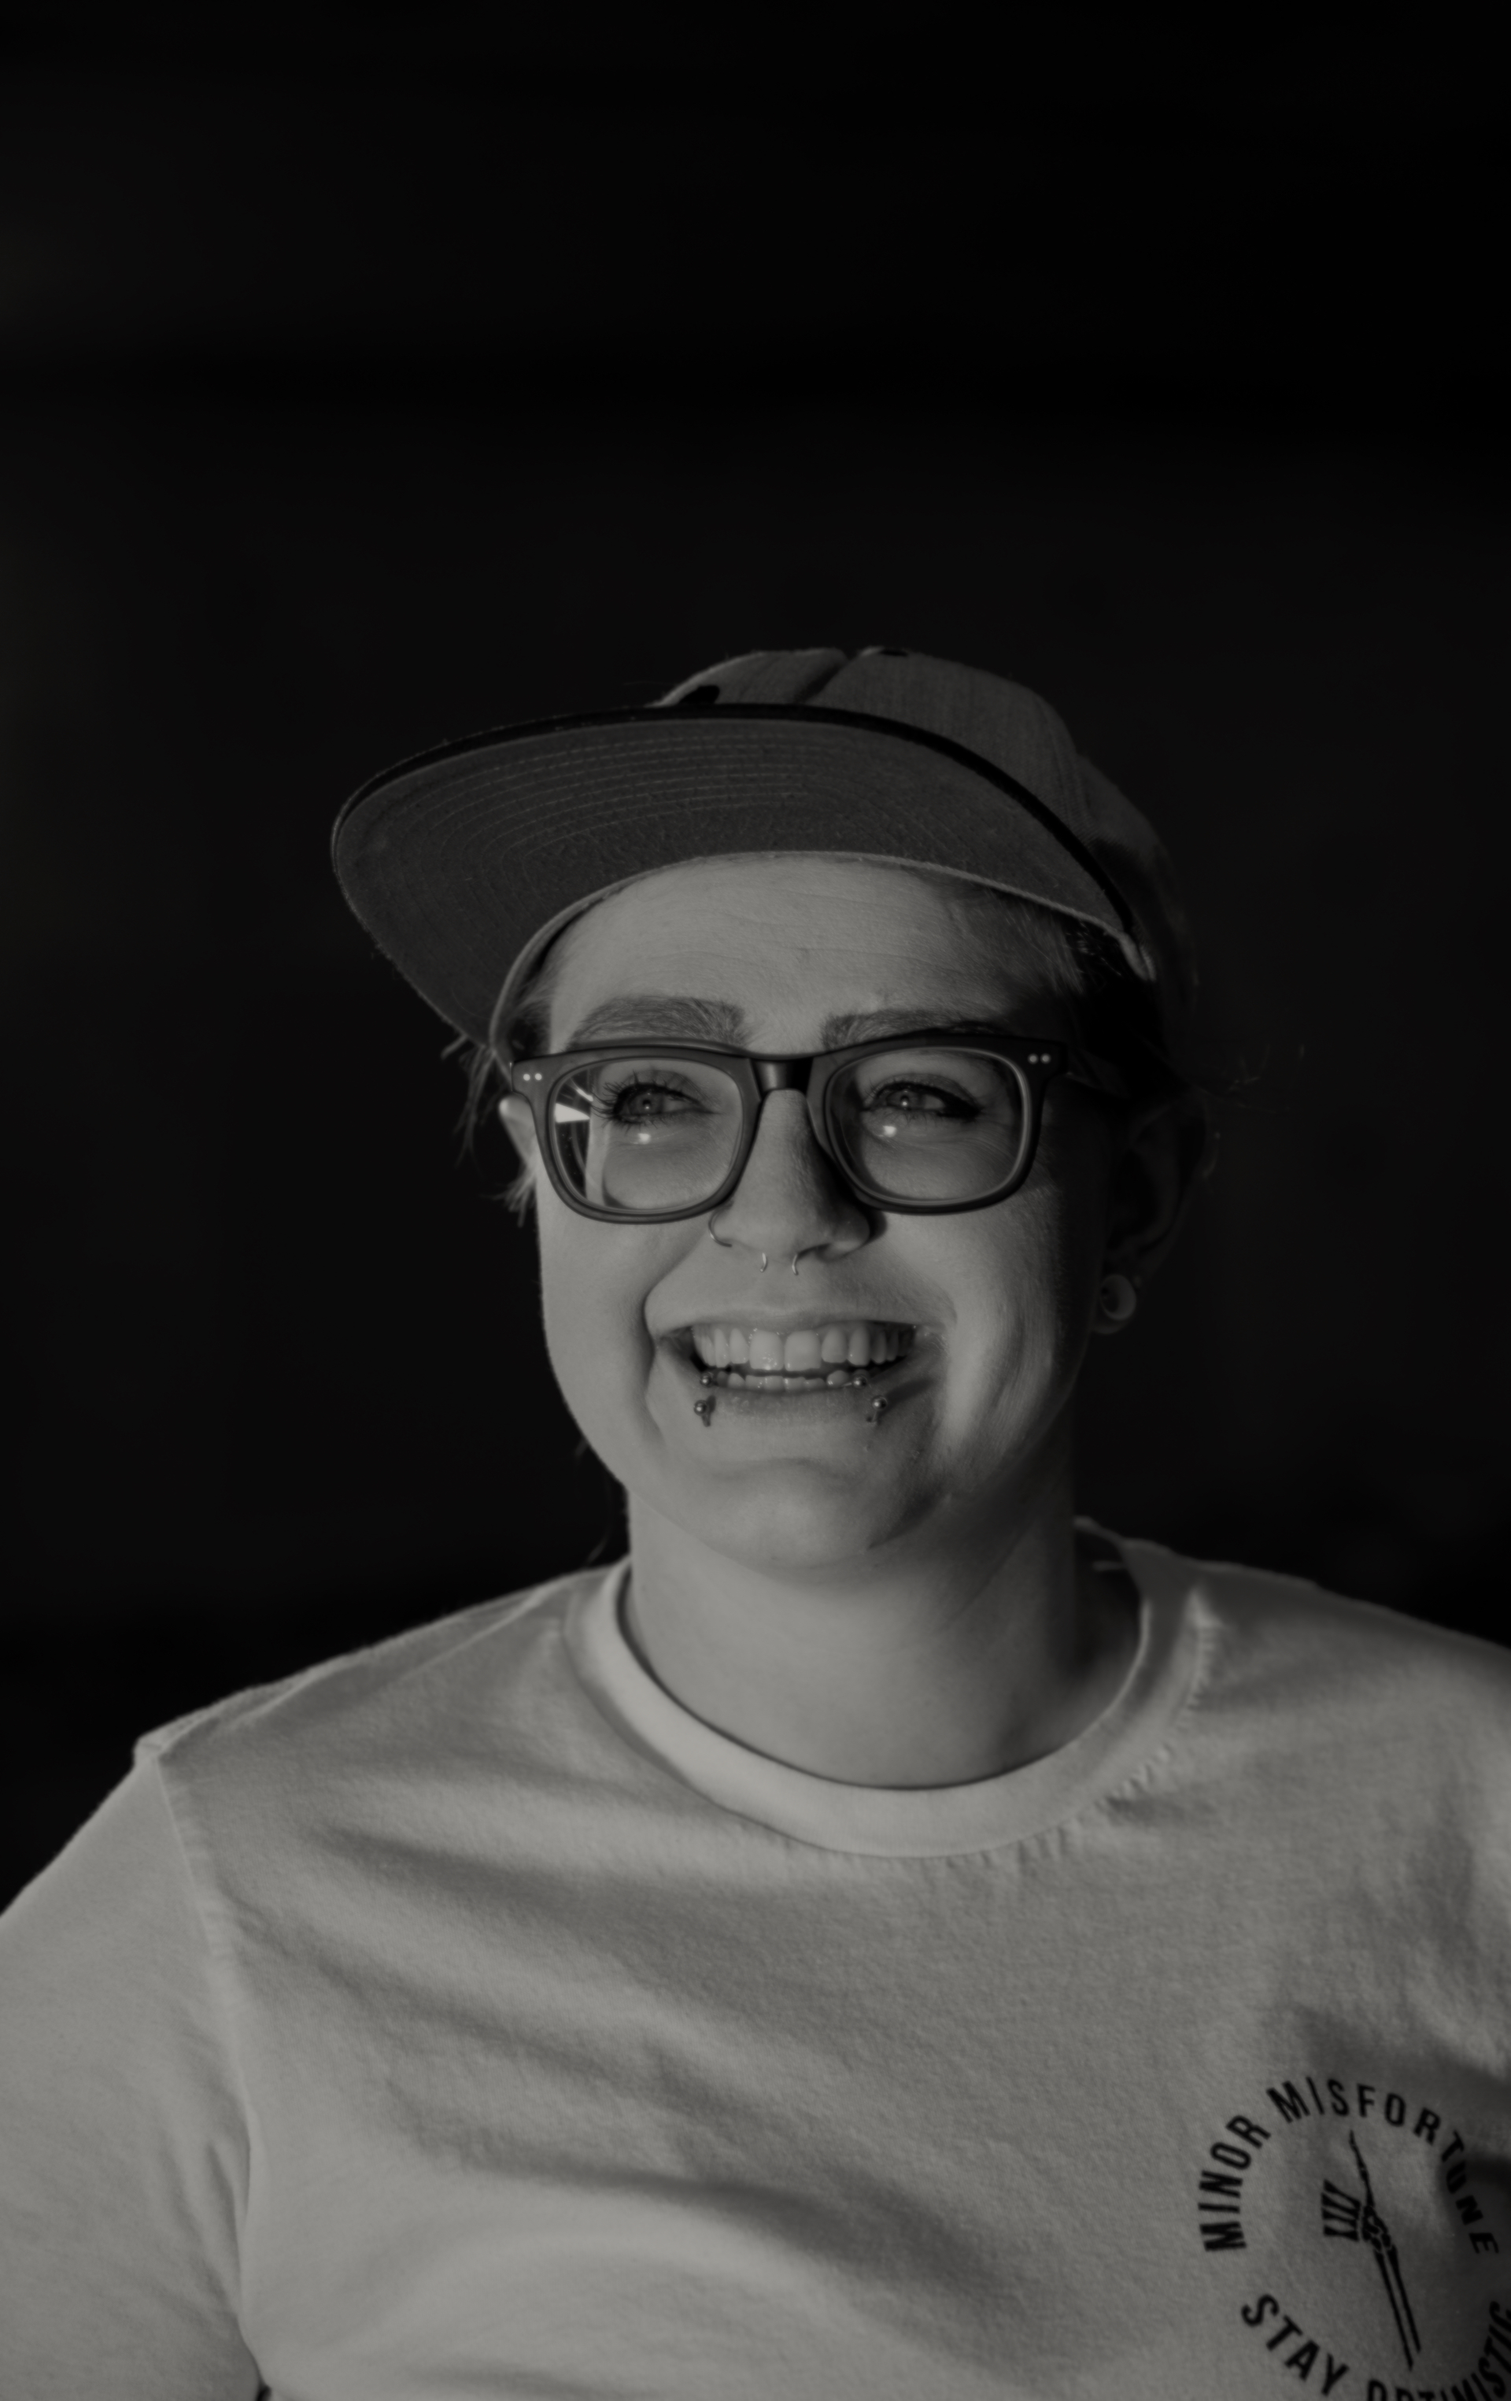
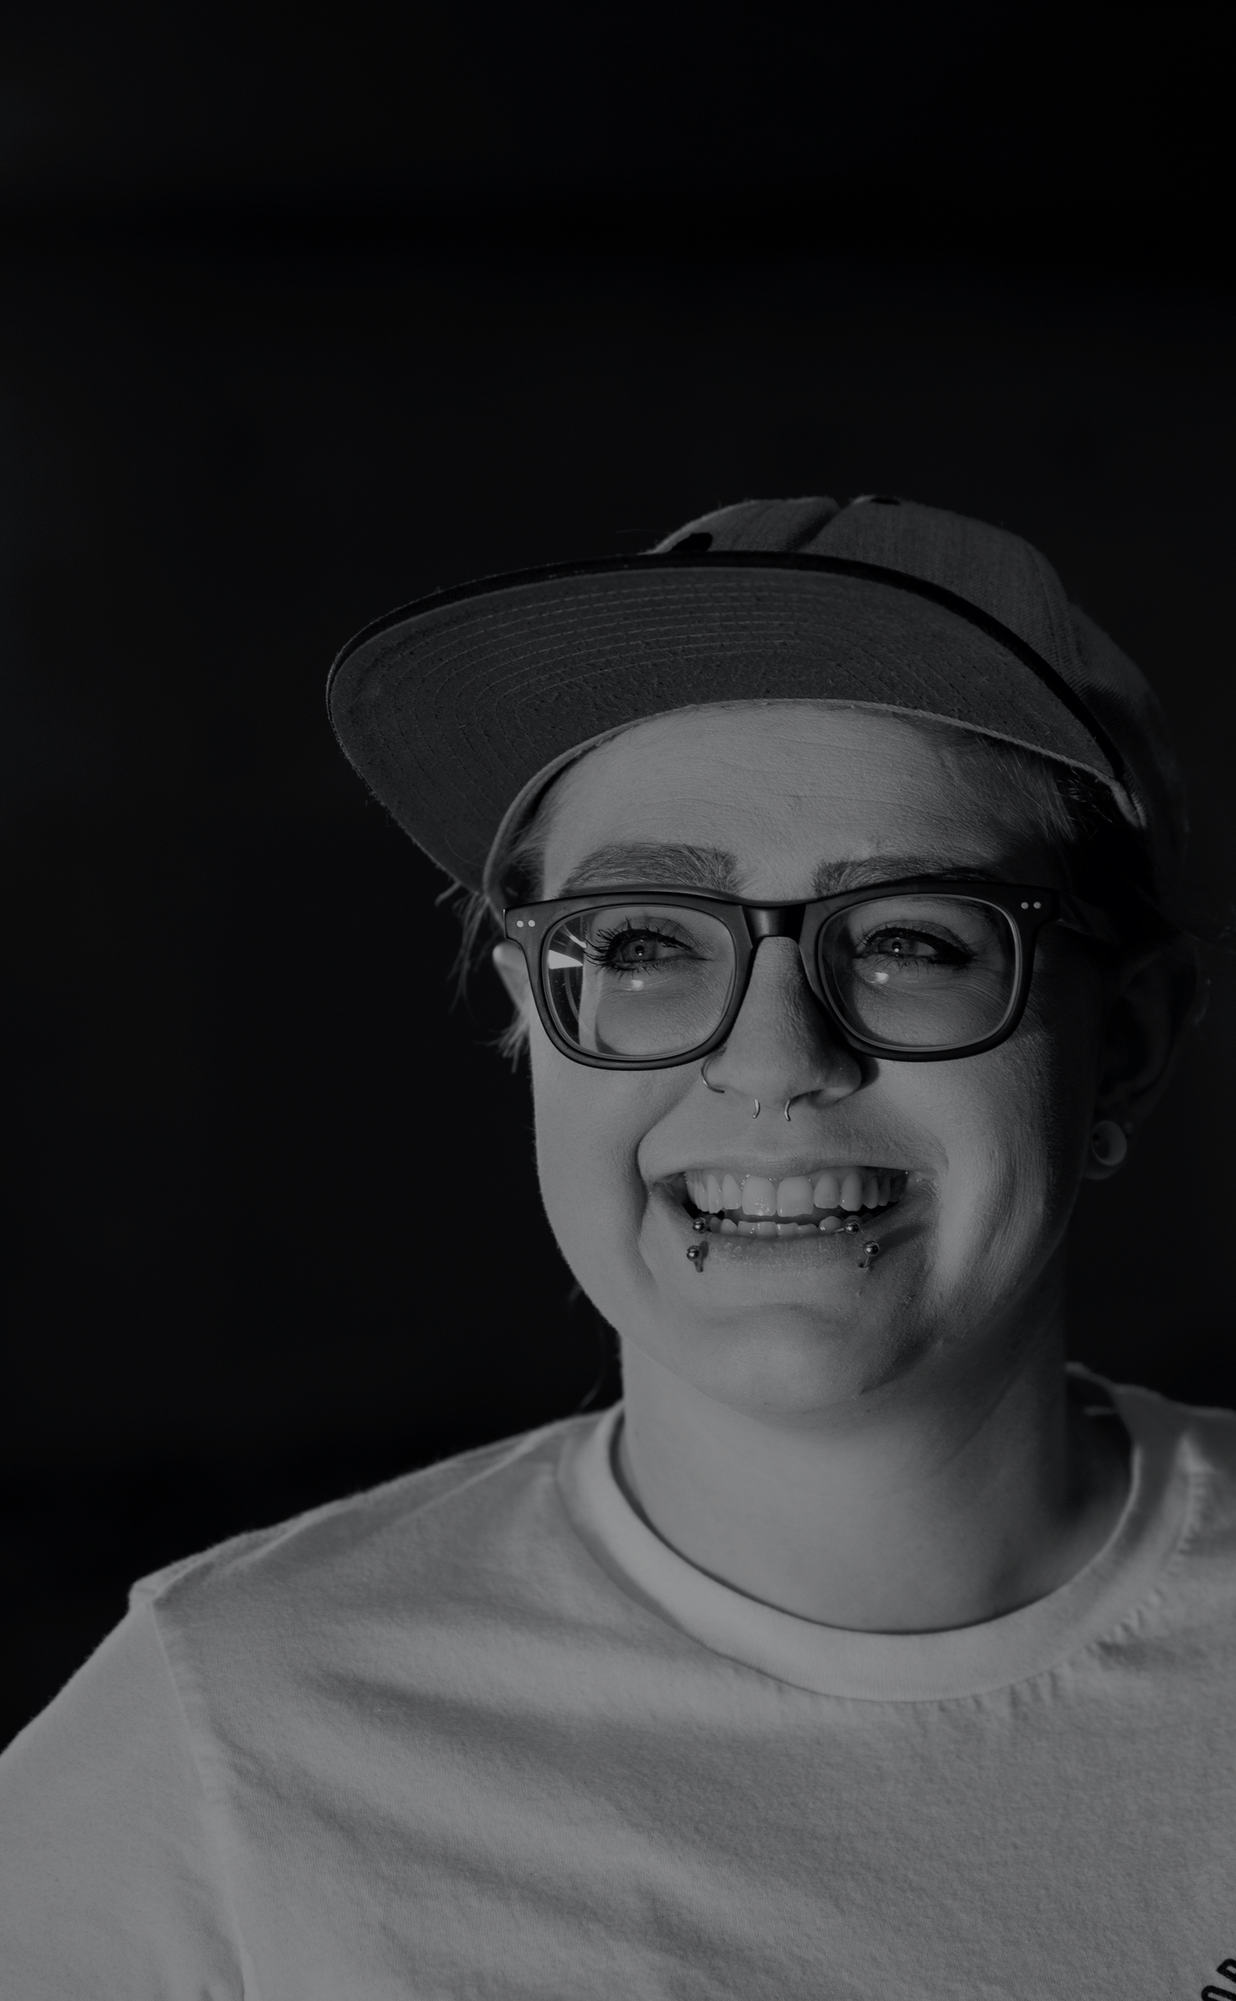
updated skills background

Changed region(s): [[0.0, 0.2486, 1.0, 1.0], [0.2183, 0.3108, 0.2807, 0.404], [0.1248, 0.9634, 0.1871, 1.0]]

diff --git a/portfolio/src/styles/index.js b/portfolio/src/styles/index.js
@@ -1,8 +1,8 @@
 import styled, { keyframes } from 'styled-components';
 import { bounce } from 'react-animations';
+
 import landing from '../assets/lakecopy.jpg';
 import contact from '../assets/herocopy.jpg';
-import skills from '../assets/skills.jpg';
 
 export const bounceAnimation = keyframes`${bounce}`;
 
@@ -136,11 +136,11 @@ export const LandingContainer = styled.div`
 export const ContactContainer = styled.div`
     background-image: url(${contact});
     width: 100%;
-    height: 100vh;
+    height: auto;
     background-position: center center;
     background-repeat: no-repeat;
-    background-attachment: scroll;
-    object-fit: cover;
+    background-attachment: fixed;
+    position: fixed;
     display: flex;
     flex-direction: column;
     border: yellow solid 1px;
@@ -306,26 +306,28 @@ export const NavContainer = styled.div`
     }
 `
 
+
 export const SkillsContainer = styled.div`
-    background-image: url(${skills});
     background-color: #000;
     width: 100%;
     height: auto;
     background-repeat: no-repeat;
-    background-position: left top;
+    background-position: 0% 40%;
     background-size: cover;
-    background-attachment: scroll;
+    background-attachment: fixed;
     display: flex;
     flex-direction: column;
     padding: 3rem 0;
 
     @media(max-width: 1050px){
         padding: 2.5rem 0;
+        background-position: top left;
+        background-size: cover;
     }
 
     @media(max-width: 700px){
         padding: 1rem 0;
-        background-position: 32% 0%;
+        background-position: center left;
     }
 
     .content {
@@ -336,7 +338,7 @@ export const SkillsContainer = styled.div`
 
     .opp {
         background-color: #D0B4A4;
-        width: 50%;
+
         text-align: right;
 
         @media(max-width: 1050px){
@@ -359,6 +361,7 @@ export const SkillsContainer = styled.div`
 
     .skill {
         display: flex;
+        padding: 0 0.35rem 1rem 0;
 
         div {
             display: flex;
@@ -399,11 +402,7 @@ export const SkillsContainer = styled.div`
             }
     
             @media(max-width: 700px){
-                padding-right: 1.5rem;
-            }
-    
-            @media(max-width: 400px){
-                padding-right: 1rem;
+                padding-right: 0.75rem;
             }
         }
     }

diff --git a/portfolio/src/components/Skills.js b/portfolio/src/components/Skills.js
@@ -1,11 +1,22 @@
 import React from 'react';
 import { SkillsContainer } from '../styles'
 
+import { useWindowWidth } from '../utils/useWindowWidth'
+
+import skills from '../assets/skills.jpg';
+import skillsWide from '../assets/NZ6_7566.jpg';
+
 import NavOne from './NavOne' 
 
 function Skills() {
+
+    const imageUrl = useWindowWidth() >= 1050 ? skillsWide : skills;
+
     return(
-        <SkillsContainer>
+        <SkillsContainer
+            style={{
+                backgroundImage: `url(${imageUrl})`
+            }}>
         <div className="nav mobile">
             <NavOne />
         </div>

diff --git a/portfolio/src/utils/useWindowWidth.js b/portfolio/src/utils/useWindowWidth.js
@@ -1,0 +1,16 @@
+import { useEffect, useState } from "react";
+
+export const useWindowWidth = () => {
+    const [windowWidth, setWindowWidth ] = useState(window.innerWidth);
+
+    const handleWindowResize = () => {
+        setWindowWidth(window.innerWidth);
+    };
+
+    useEffect(() => {
+        window.addEventListener('resize', handleWindowResize);
+        return () => window.removeEventListener('resize', handleWindowResize);
+    },[]);
+
+    return windowWidth;
+};
